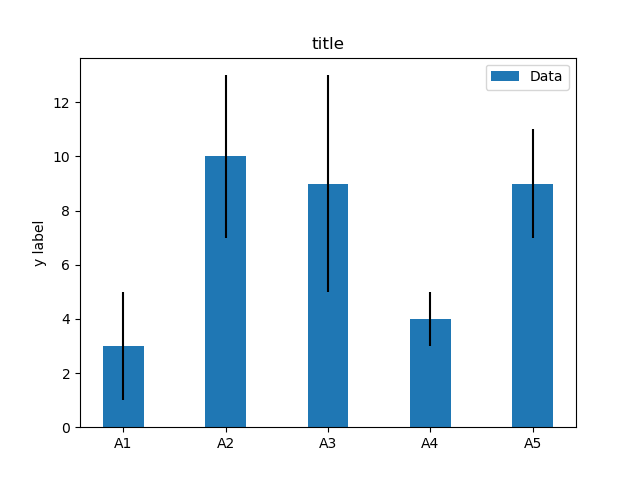
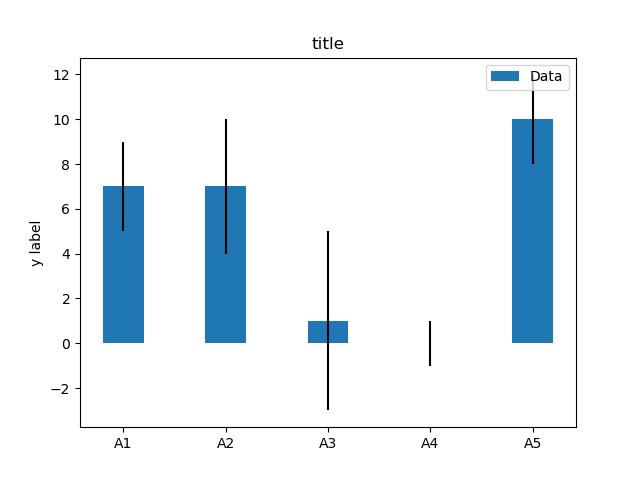
first commit

diff --git a/example.py b/example.py
@@ -2,7 +2,7 @@ import numpy as np
 import matplotlib.pyplot as plt
 
 labels = ['A1', 'A2', 'A3', 'A4', 'A5']
-m_means = [3,10,9,4,9]
+m_means = [7,7,1,0,10]
 m_std = [2, 3, 4, 1, 2]
 width = 0.40       # the width of the bars
 

diff --git a/README.md b/README.md
@@ -1,4 +1,4 @@
-# Matplotlib no 192 
+# Matplotlib no 193 
 
 python example
 
